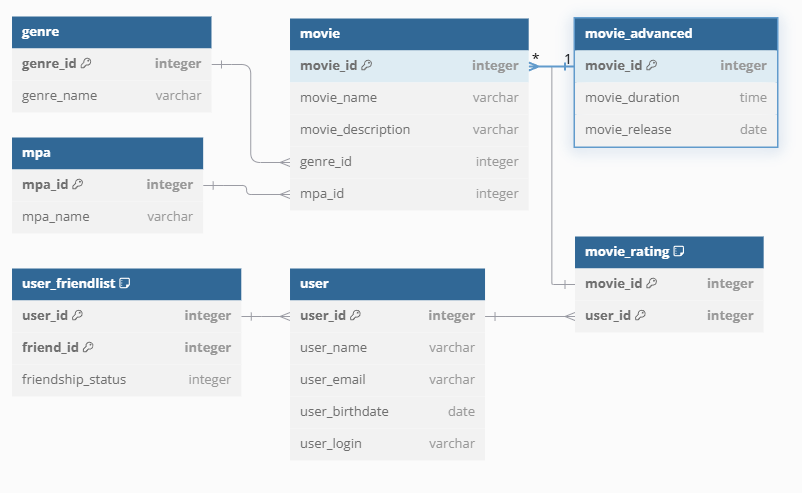
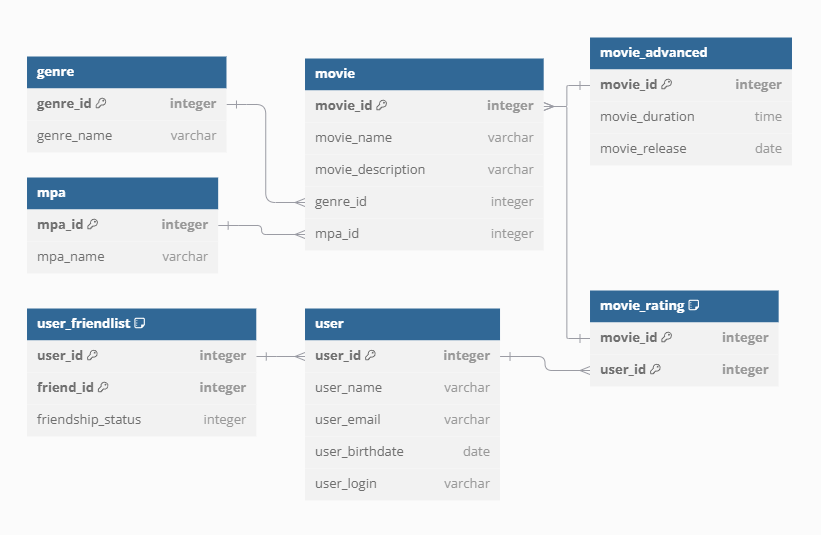
ER-diagramm added. Remarks fixed

diff --git a/README.md b/README.md
@@ -21,4 +21,20 @@ PK: user_id+friend_id - ключ составной, связка id юзера+
 PK: movie_id + user_id - ключ составной, связка фильма и id лайкнувшего юзера уникальна.   
 Из неё можно будет каунтить рейтинг фильма по id, а также искать пересечения по лайкнувшим юзерам для составления списка обших фильмов.
 
+**Примеры запросов**
+1. Получение фильма по id:
+    SELECT*
+    FROM movie
+    WHERE movie_id = {id фильма};
+2. Получение TOP-10 фильмов
+    SELECT *
+    FROM movie
+    WHERE movie_id IN (SELECT movie_id
+    FROM movie_rating
+    GROUP BY movie_id
+    ORDER BY COUNT(user_id) DESC
+    LIMIT 10);
+
+    
+
 ![Диаграмма базы данных](src/main/resources/Java-filmorate%20SQL%20db.png)
